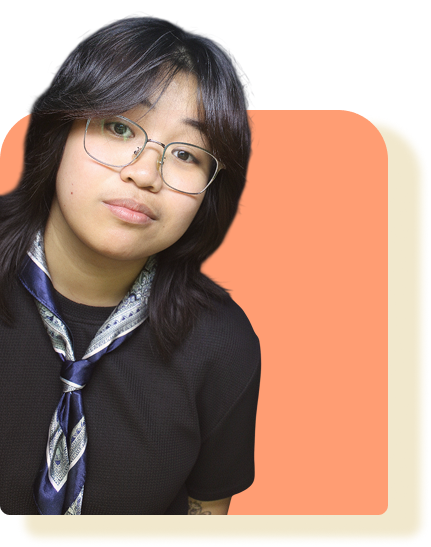
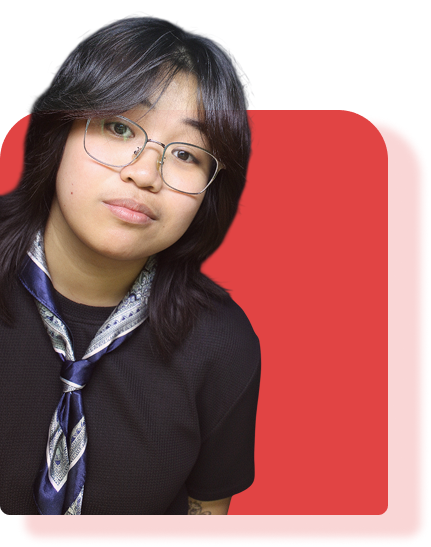
ui changes

Changed region(s): [[0.4524, 0.1865, 0.9049, 0.9634], [0.0, 0.1865, 0.0905, 0.3729]]

diff --git a/jz-portfolio/src/sections/Contact.vue b/jz-portfolio/src/sections/Contact.vue
@@ -5,7 +5,7 @@
       <div class="grid items-start gap-8 md:grid-cols-2">
         <!-- Left Card - Contact Info -->
         <div class="p-8 border border-white/20 bg-white/10 rounded-2xl">
-          <h2 class="mb-4 text-2xl font-bold text-orange-500 font-heading">Let's Work Together</h2>
+          <h2 class="mb-4 text-2xl font-bold text-red-500 font-heading">Let's Work Together</h2>
           <p class="mb-8 font-body">
             I'm always open to discussing new projects, creative ideas, or opportunities to be part
             of your vision.
@@ -15,15 +15,15 @@
           <div class="mb-8 space-y-6">
             <div class="flex items-start gap-4">
               <div
-                class="flex items-center justify-center flex-shrink-0 w-12 h-12 rounded-lg bg-orange-500/10"
+                class="flex items-center justify-center flex-shrink-0 w-12 h-12 rounded-lg bg-red-500/10"
               >
-                <Mail class="w-5 h-5 text-orange-500" />
+                <Mail class="w-5 h-5 text-red-500" />
               </div>
               <div>
-                <p class="mb-1 text-sm text-orange-500 font-body">Email</p>
+                <p class="mb-1 text-sm text-red-500 font-body">Email</p>
                 <a
                   href="mailto:juliazyrene23@gmail.com"
-                  class="text-white transition-colors hover:text-orange-400 font-body"
+                  class="text-white transition-colors hover:text-red-400 font-body"
                 >
                   juliazyrene23@gmail.com
                 </a>
@@ -32,15 +32,15 @@
 
             <div class="flex items-start gap-4">
               <div
-                class="flex items-center justify-center flex-shrink-0 w-12 h-12 rounded-lg bg-orange-500/10"
+                class="flex items-center justify-center flex-shrink-0 w-12 h-12 rounded-lg bg-red-500/10"
               >
-                <Phone class="w-5 h-5 text-orange-500" />
+                <Phone class="w-5 h-5 text-red-500" />
               </div>
               <div>
-                <p class="mb-1 text-sm text-orange-500 font-body">Phone</p>
+                <p class="mb-1 text-sm text-red-500 font-body">Phone</p>
                 <a
                   href="tel:09565595721"
-                  class="text-white transition-colors hover:text-orange-400 font-body"
+                  class="text-white transition-colors hover:text-red-400 font-body"
                 >
                   09565595721
                 </a>
@@ -49,12 +49,12 @@
 
             <div class="flex items-start gap-4">
               <div
-                class="flex items-center justify-center flex-shrink-0 w-12 h-12 rounded-lg bg-orange-500/10"
+                class="flex items-center justify-center flex-shrink-0 w-12 h-12 rounded-lg bg-red-500/10"
               >
-                <MapPin class="w-5 h-5 text-orange-500" />
+                <MapPin class="w-5 h-5 text-red-500" />
               </div>
               <div>
-                <p class="mb-1 text-sm text-orange-500 font-body">Location</p>
+                <p class="mb-1 text-sm text-red-500 font-body">Location</p>
                 <p class="text-white font-body">Baguio City, Philippines</p>
               </div>
             </div>
@@ -70,7 +70,7 @@
                 :key="social.name"
                 :href="social.url"
                 target="_blank"
-                class="flex items-center justify-center w-12 h-12 transition-all duration-300 rounded-lg bg-orange-500/10 hover:bg-orange-500 hover:border-orange-500 group"
+                class="flex items-center justify-center w-12 h-12 transition-all duration-300 rounded-lg bg-red-500/10 hover:bg-red-500 hover:border-red-500 group"
                 :title="social.name"
               >
                 <component
@@ -84,7 +84,7 @@
 
         <!-- Right Card - Contact Form -->
         <div class="p-8 border border-white/20 bg-white/10 rounded-2xl">
-          <h2 class="mb-6 text-2xl font-bold text-orange-500 font-heading">Send a Message</h2>
+          <h2 class="mb-6 text-2xl font-bold text-red-500 font-heading">Send a Message</h2>
           <form @submit.prevent="handleSubmit" class="space-y-5">
             <div>
               <label for="name" class="block mb-2 text-sm text-white font-body">Your Name</label>
@@ -93,7 +93,7 @@
                 id="name"
                 v-model="form.name"
                 required
-                class="w-full px-4 py-2 text-white transition-colors border rounded-lg border-white/20 bg-white/10 focus:border-orange-400 focus:outline-none font-body placeholder:text-gray-500"
+                class="w-full px-4 py-2 text-white transition-colors border rounded-lg border-white/20 bg-white/10 focus:border-red-400 focus:outline-none font-body placeholder:text-gray-500"
                 placeholder="Juan Dela Cruz"
               />
             </div>
@@ -105,7 +105,7 @@
                 id="email"
                 v-model="form.email"
                 required
-                class="w-full px-4 py-3 text-white transition-colors border rounded-lg border-white/20 bg-white/10 focus:border-orange-400 focus:outline-none font-body placeholder:text-gray-500"
+                class="w-full px-4 py-3 text-white transition-colors border rounded-lg border-white/20 bg-white/10 focus:border-red-400 focus:outline-none font-body placeholder:text-gray-500"
                 placeholder="juandelacruz@example.com"
               />
             </div>
@@ -117,14 +117,14 @@
                 v-model="form.message"
                 required
                 rows="4"
-                class="w-full px-4 py-3 text-white transition-colors border rounded-lg border-white/20 bg-white/10 focus:border-orange-400 focus:outline-none font-body placeholder:text-gray-500"
+                class="w-full px-4 py-3 text-white transition-colors border rounded-lg border-white/20 bg-white/10 focus:border-red-400 focus:outline-none font-body placeholder:text-gray-500"
                 placeholder="Tell me about your project..."
               ></textarea>
             </div>
 
             <button
               type="submit"
-              class="flex items-center justify-center w-full gap-2 px-8 py-3 text-white transition-all duration-300 bg-orange-500 rounded-lg hover:bg-orange-600 font-body "
+              class="flex items-center justify-center w-full gap-2 px-8 py-3 text-white transition-all duration-300 bg-red-500 rounded-lg hover:bg-red-600 font-body "
             >
               Send Message
               <Send class="w-4 h-4" />

diff --git a/jz-portfolio/src/sections/Projects.vue b/jz-portfolio/src/sections/Projects.vue
@@ -11,16 +11,16 @@
       </div>
 
       <!-- Projects Grid -->
-      <div class="grid gap-8 mb-12 md:grid-cols-3 ">
+      <div class="grid gap-8 mb-12 md:grid-cols-3">
         <div
           v-for="project in projects"
+          @click="openModal(project)"
           :key="project.title"
-          class="overflow-hidden bg-[#e80560]/10 border border-[#e80560]/20 rounded-2xl card-hover"
+          class="overflow-hidden bg-[#FF6668]/20 border border-[#FF6668]/50 rounded-2xl card-hover cursor-pointer"
         >
           <!-- Project Image -->
           <div
-            @click="openModal(project)"
-            class="relative h-64 overflow-hidden cursor-pointer bg-gradient-to-br from-orange-400/20 to-pink-600/50"
+            class="relative h-64 overflow-hidden cursor-pointer bg-gradient-to-br from-red-400/10 to-red-600/50"
           >
             <img
               :src="project.image"
@@ -38,26 +38,23 @@
                   :class="[
                     'px-3 py-2 text-xs font-semibold rounded-full whitespace-nowrap',
                     project.tag === 'Coreproc'
-                      ? 'bg-orange-500/20 text-orange-500'
-                      : 'bg-white/20 text-white'
+                      ? 'bg-red-500/20 text-red-500'
+                      : 'bg-white/20 text-white',
                   ]"
                 >
                   {{ project.tag }}
                 </span>
 
                 <div class="relative group">
-                  <Figma
-                    :size="24"
-                    class="transition-colors text-white/70 hover:text-orange-500"
-                  />
+                  <Figma :size="24" class="transition-colors text-white/70 hover:text-red-500" />
 
                   <!-- Tooltip -->
                   <div
-                    class="absolute bottom-full left-1/2 -translate-x-1/2 mb-2 px-3 py-1.5 bg-gradient-to-r from-orange-300/50 to-pink-200/60 text-white text-sm font-semibold rounded-lg opacity-0 invisible group-hover:opacity-100 group-hover:visible transition-all duration-300 whitespace-nowrap shadow-lg"
+                    class="absolute bottom-full left-1/2 -translate-x-1/2 mb-2 px-3 py-1.5 bg-gradient-to-r from-red-300/50 to-pink-200/60 text-white text-sm font-semibold rounded-lg opacity-0 invisible group-hover:opacity-100 group-hover:visible transition-all duration-300 whitespace-nowrap shadow-lg"
                   >
                     Figma
                     <div
-                      class="absolute -translate-x-1/2 border-4 border-transparent top-full left-1/2 border-t-orange-500"
+                      class="absolute -translate-x-1/2 border-4 border-transparent top-full left-1/2 border-t-red-500"
                     ></div>
                   </div>
                 </div>
@@ -70,7 +67,7 @@
       <!-- View All Projects Button -->
       <div class="text-center">
         <button
-          class="px-8 py-3 text-purple-500 transition-all duration-300 border-2 border-purple-500 rounded-full font-body hover:bg-purple-700 hover:text-white bg-purple-500/10"
+          class="px-8 py-3 text-red-500 transition-all duration-300 border-2 border-red-500 rounded-full font-body hover:bg-red-700/50 hover:text-white bg-red-500/10"
         >
           Explore All Projects
         </button>
@@ -87,7 +84,7 @@
         <!-- Close Button - Fixed Position -->
         <button
           @click="closeModal"
-          class="fixed top-4 right-4 z-[60] p-3 transition-colors rounded-full shadow-lg bg-white/20 hover:bg-orange-500/80"
+          class="fixed top-4 right-4 z-[60] p-3 transition-colors rounded-full shadow-lg bg-white/20 hover:bg-red-500/80"
         >
           <svg class="w-6 h-6 text-white" fill="none" stroke="currentColor" viewBox="0 0 24 24">
             <path

diff --git a/jz-portfolio/src/components/Navbar.vue b/jz-portfolio/src/components/Navbar.vue
@@ -9,14 +9,14 @@
             <a 
               href="#home" 
               @click.prevent="scrollToSection('hero')"
-              :class="['transition-colors', activeSection === 'hero' ? 'text-purple-400 ' : 'text-white hover:text-purple-400']"
+              :class="['transition-colors', activeSection === 'hero' ? 'text-red-400 ' : 'text-white hover:text-red-400']"
             >
               Home
             </a>
             <a 
               href="#about" 
               @click.prevent="scrollToSection('about')"
-              :class="['transition-colors', activeSection === 'about' ? 'text-purple-400' : 'text-white hover:text-purple-400']"
+              :class="['transition-colors', activeSection === 'about' ? 'text-red-400' : 'text-white hover:text-red-400']"
             >
               About
             </a>
@@ -25,7 +25,7 @@
           <!-- Center Logo -->
           <div class="flex-shrink-0">
             <a href="#" @click.prevent="scrollToSection('hero')" class="block">
-              <img src="/src/assets/images/j-logo.png" alt="Logo" class="w-auto h-12" />
+              <img src="/src/assets/images/jz-circle.png" alt="Logo" class="w-auto h-12" />
             </a>
           </div>
 
@@ -34,14 +34,14 @@
             <a 
               href="#projects" 
               @click.prevent="scrollToSection('projects')"
-              :class="['transition-colors', activeSection === 'projects' ? 'text-purple-400 ' : 'text-white hover:text-purple-400']"
+              :class="['transition-colors', activeSection === 'projects' ? 'text-red-400 ' : 'text-white hover:text-red-400']"
             >
               Projects
             </a>
             <a 
               href="#contact" 
               @click.prevent="scrollToSection('contact')"
-              :class="['transition-colors', activeSection === 'contact' ? 'text-purple-400 ' : 'text-white hover:text-purple-400']"
+              :class="['transition-colors', activeSection === 'contact' ? 'text-red-400 ' : 'text-white hover:text-red-400']"
             >
               Contact
             </a>
@@ -53,13 +53,13 @@
           <div class="flex items-center justify-between">
             <!-- Mobile Logo -->
             <a href="#" @click.prevent="scrollToSection('hero')" class="block">
-              <img src="/src/assets/images/j-logo.png" alt="Logo" class="w-auto h-10" />
+              <img src="/src/assets/images/jz-circle.png" alt="Logo" class="w-auto h-10" />
             </a>
 
             <!-- Hamburger Button -->
             <button 
               @click="mobileMenuOpen = !mobileMenuOpen"
-              class="p-2 text-white transition-colors hover:text-purple-400"
+              class="p-2 text-white transition-colors hover:text-red-400"
               aria-label="Toggle menu"
             >
               <svg 

diff --git a/jz-portfolio/src/sections/About.vue b/jz-portfolio/src/sections/About.vue
@@ -1,7 +1,7 @@
 <template>
   <section
     id="about"
-    class="relative py-10 px-6 border-[#6192fb]/20 border-2 rounded-3xl overflow-hidden"
+    class="relative py-10 px-6 border-[#A90109]/20 border-2 rounded-3xl overflow-hidden"
     style="background: linear-gradient(180deg, #013ca917 0%, #33978b08 100%)"
   >
     <div class="container relative z-10 mx-auto">
@@ -18,7 +18,7 @@
           <div class="mb-4" :style="{ color: skill.color }">
             <component :is="skill.icon" class="w-10 h-10 stroke-current" />
           </div>
-          <h3 class="mb-3 text-xl font-semibold text-orange-500 font-heading">{{ skill.title }}</h3>
+          <h3 class="mb-3 text-xl font-semibold text-red-500 font-heading">{{ skill.title }}</h3>
           <p class="text-[#D1D5DC] font-body leading-relaxed">{{ skill.description }}</p>
         </div>
       </div>
@@ -35,7 +35,7 @@
             <!-- Icon Container -->
             <div class="flex items-start gap-2 lg:gap-4">
               <div
-                class="flex items-center justify-center flex-shrink-0 w-8 h-8 lg:w-12 lg:h-12 bg-orange-500/40 rounded-xl"
+                class="flex items-center justify-center flex-shrink-0 w-8 h-8 lg:w-12 lg:h-12 bg-red-500/40 rounded-xl"
               >
                 <component
                   :is="item.id === 4 ? GraduationCap : Briefcase"
@@ -46,7 +46,7 @@
               <!-- Content -->
               <div class="container flex-1 min-w-0">
                 <div class="flex items-start justify-between gap-4">
-                  <h3 class="text-base font-bold leading-tight text-orange-500 lg:text-xl font-heading">
+                  <h3 class="text-base font-bold leading-tight text-red-500 lg:text-xl font-heading">
                     {{ item.title }}
                   </h3>
                   <span class="flex-shrink-0 text-sm lg:text-base">
@@ -72,7 +72,7 @@
           <div class="relative">
             <!-- Header -->
             <div class="flex items-center gap-3 mb-6">
-              <Palette class="w-10 h-10 text-orange-500" />
+              <Palette class="w-10 h-10 text-red-500" />
               <h3 class="text-2xl font-semibold text-white">Design</h3>
             </div>
 
@@ -100,7 +100,7 @@
           <div class="relative">
             <!-- Header -->
             <div class="flex items-center gap-3 mb-6">
-              <Code class="w-10 h-10 text-orange-500" />
+              <Code class="w-10 h-10 text-red-500" />
               <h3 class="text-2xl font-semibold text-white">Development</h3>
             </div>
 

diff --git a/jz-portfolio/src/sections/Hero.vue b/jz-portfolio/src/sections/Hero.vue
@@ -33,7 +33,7 @@
         >
           <h1 class="text-5xl font-extrabold md:text-7xl font-heading">Hi!</h1>
           <h1 class="text-5xl font-extrabold md:text-7xl font-heading">
-            I'm <span class="text-orange-500">Julia</span>
+            I'm <span class="text-red-500">Julia</span>
           </h1>
           <p class="max-w-lg text-xl leading-relaxed font-body">
             From layout to code, every detail is crafted to deliver seamless, responsive, and
@@ -41,7 +41,7 @@
           </p>
           <button
             @click="scrollToContact"
-            class="px-8 py-3 text-white bg-orange-500 rounded-full font-body animate-bounce"
+            class="px-8 py-3 text-white bg-red-500 rounded-full font-body animate-bounce"
           >
             Let's Talk <MoveRight class="inline-block ml-2" />
           </button>
@@ -91,7 +91,7 @@ const scrollToContact = () => {
   position: absolute;
   opacity: 0.15;
   border-radius: 50%;
-  background: linear-gradient(135deg, #e71414 0%, #05ff76 100%);
+  background: linear-gradient(135deg, #e9dddd 0%, #0516ff 100%);
   filter: blur(40px);
 }
 

diff --git a/jz-portfolio/tailwind.config.js b/jz-portfolio/tailwind.config.js
@@ -25,6 +25,18 @@ export default {
           900: '#50230F',
           950: '#3A1708',
         },
+        red:{
+          100: '#FFE6E6',
+          200: '#FFB8B8',
+          300: '#FF8A8A',
+          400: '#FF5C5C',
+          500: '#FF3C3C',
+          600: '#FF0000',
+          700: '#D10000',
+          800: '#A30000',
+          900: '#750000',
+          950: '#470000',
+        },
         dark: {
           bg: '#0a0a0f',
           parcard: '#1a1a2e',
@@ -35,7 +47,7 @@ export default {
         }
       },
       backgroundImage: {
-        'gradient-dark': 'linear-gradient(180deg, #0D0718 0%, #1F1438 50%, #0D0718 100%)',
+        'gradient-dark': 'linear-gradient(180deg, #120404 0%, #CE0000 50%, #120404 100%)',
         'gradient-card': 'linear-gradient(180deg, #201e2e 10%, #443135 100%)',
       }
     },

diff --git a/jz-portfolio/src/sections/Footer.vue b/jz-portfolio/src/sections/Footer.vue
@@ -2,7 +2,7 @@
   <footer class="px-6 py-12 border-t border-gray-500">
     <div class="container mx-auto">
       <div class="flex flex-col items-center justify-center">
-        <img src="/src/assets/images/j-logo.png" alt="Logo" class="w-20 h-20 mb-4" />
+        <img src="/src/assets/images/jz-circle.png" alt="Logo" class="w-auto h-20 object-cover mb-4" />
         <p>&copy; {{ currentYear }} Julia Almoite. All rights reserved.</p>
       </div>
     </div>

diff --git a/jz-portfolio/index.html b/jz-portfolio/index.html
@@ -2,7 +2,7 @@
 <html lang="">
   <head>
     <meta charset="UTF-8">
-    <link rel="icon" type="image/png" href="/src/assets/images/j-logo.png">
+    <link rel="icon" type="image/png" href="/src/assets/images/jz-circle.png">
     <meta name="viewport" content="width=device-width, initial-scale=1.0">
     <title>Julia Almoite - Portfolio</title>
   </head>

diff --git a/jz-portfolio/src/assets/main.css b/jz-portfolio/src/assets/main.css
@@ -28,6 +28,6 @@
   }
 
   .bg-gradient-dark {
-    background: linear-gradient(180deg, #0D0718 0%, #1F1438 50%, #0D0718 100%);
+    background: linear-gradient(180deg, #120404 0%, #440707 50%, #120404 100%);
   }
 }
